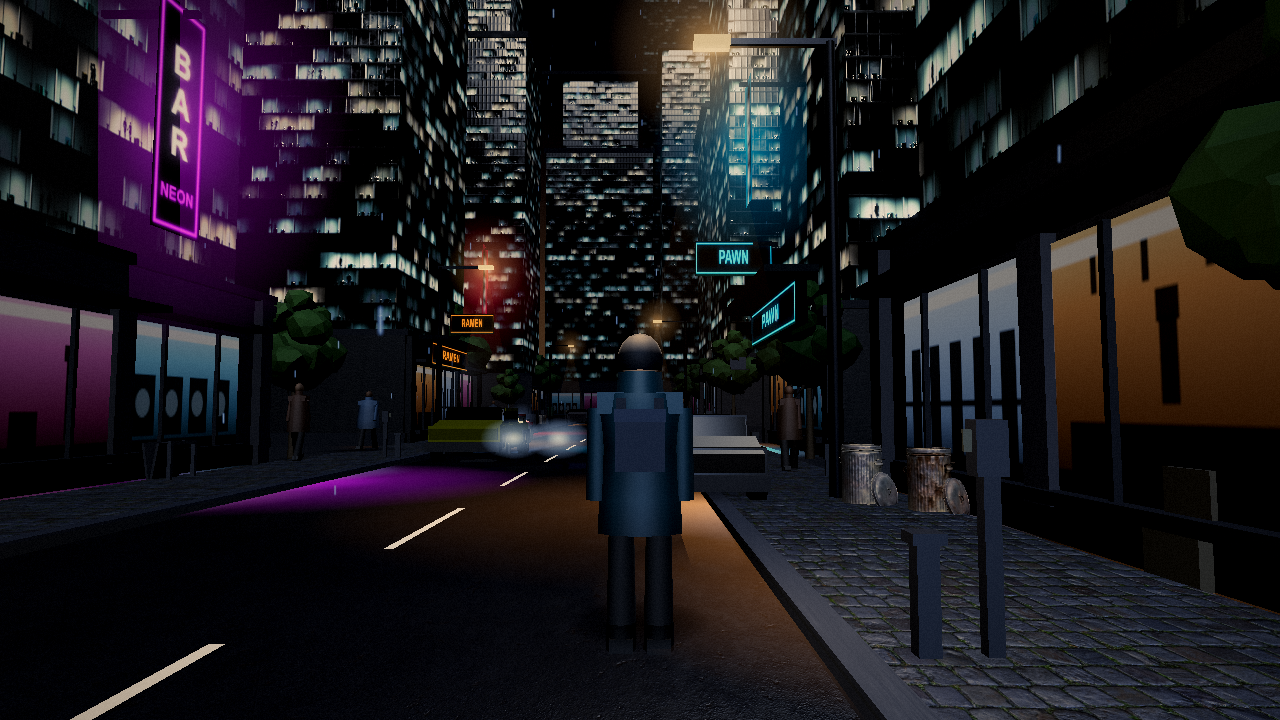
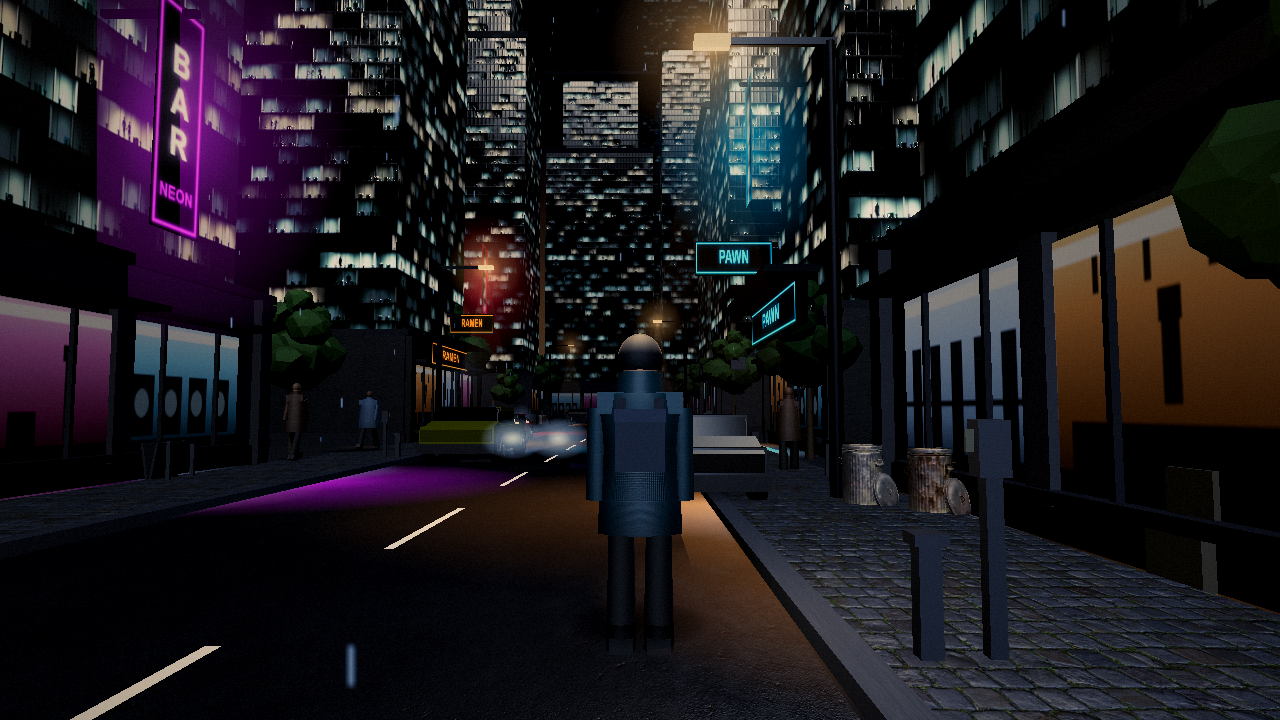
feat(render): cloth that is cloth, not flat colour (VGA-013)
Every surface in this city carries a normal map except the one the player
looks at for the whole game. The hero's coat and all 72 walkers' coats were
flat colour standing in front of PBR pavement and PBR walls, and that
mismatch reads as "the character is from a different, cheaper game" long
before any shape problem does. It is the last thing left that made the
avatar look moulded.

A woven height field — two fine sine ripples plus seeded noise — differenced
into a tangent-space normal map at 128x128, built once and shared by the
hero and the whole crowd. Tiled four times, at 0.62 strength on the hero and
0.5 on the instanced walkers, because their coats are never as close to the
camera.

Seeded through mulberry32, not Math.random, so the weave is the same every
run.

Draws: 153 peak / 139 mode on the same scripted sweep — unchanged. One
texture, no new material, no new mesh.

Evidence: slice-035-coat-day.png, slice-035-street-day.png.

diff --git a/src/render/player.js b/src/render/player.js
@@ -2,6 +2,7 @@
 // Matches NPC fidelity — same silhouette language, hero-specific details.
 import * as THREE from 'three';
 import { mergeGeometries } from 'three/addons/utils/BufferGeometryUtils.js';
+import { mulberry32 } from '../sim/rng.js';
 
 function heroFaceTexture() {
   const c = document.createElement('canvas');
@@ -19,6 +20,54 @@ function heroFaceTexture() {
   const tex = new THREE.CanvasTexture(c);
   tex.colorSpace = THREE.SRGBColorSpace;
   return tex;
+}
+
+// Every surface in this city carries a normal map except the one the player
+// looks at for the whole game. The hero's coat and the crowd's coats were
+// flat colour next to PBR pavement and PBR walls, and that mismatch reads as
+// "the character is from a different, cheaper game" long before any shape
+// problem does. A woven height field, differenced into normals: 128x128,
+// built once, shared by the hero and all 72 walkers.
+let _fabric = null;
+
+function fabricNormalMap() {
+  if (_fabric) return _fabric;
+  const S = 128;
+  const rnd = mulberry32(0x5eed);
+  const h = new Float32Array(S * S);
+  for (let y = 0; y < S; y += 1) {
+    for (let x = 0; x < S; x += 1) {
+      h[y * S + x] = Math.sin(x * 1.55) * 0.3 + Math.sin(y * 1.55) * 0.3 + rnd() * 0.4;
+    }
+  }
+  const c = document.createElement('canvas');
+  c.width = S;
+  c.height = S;
+  const g = c.getContext('2d');
+  const img = g.createImageData(S, S);
+  const at = (x, y) => h[((y + S) % S) * S + ((x + S) % S)];
+  for (let y = 0; y < S; y += 1) {
+    for (let x = 0; x < S; x += 1) {
+      const nx = (at(x - 1, y) - at(x + 1, y)) * 1.4;
+      const ny = (at(x, y - 1) - at(x, y + 1)) * 1.4;
+      const len = Math.hypot(nx, ny, 1);
+      const i = (y * S + x) * 4;
+      img.data[i] = (nx / len * 0.5 + 0.5) * 255;
+      img.data[i + 1] = (ny / len * 0.5 + 0.5) * 255;
+      img.data[i + 2] = (1 / len * 0.5 + 0.5) * 255;
+      img.data[i + 3] = 255;
+    }
+  }
+  g.putImageData(img, 0, 0);
+  _fabric = new THREE.CanvasTexture(c);
+  _fabric.wrapS = THREE.RepeatWrapping;
+  _fabric.wrapT = THREE.RepeatWrapping;
+  _fabric.repeat.set(4, 4);
+  return _fabric;
+}
+
+export function coatFabric(scale) {
+  return { normalMap: fabricNormalMap(), normalScale: new THREE.Vector2(scale, scale) };
 }
 
 // Cloth is never one value. A coat catches sky on the shoulders, goes dark in
@@ -79,6 +128,7 @@ export function buildPlayer() {
   bakeVerticalShade(coatGeo, 0);
   const coatMat = new THREE.MeshStandardMaterial({
     color: 0x112b32, roughness: 0.6, metalness: 0.1, envMapIntensity: 0.9, vertexColors: true,
+    ...coatFabric(0.62),
   });
   const coat = new THREE.Mesh(coatGeo, coatMat);
   coat.castShadow = true;

diff --git a/src/render/npcs.js b/src/render/npcs.js
@@ -3,7 +3,7 @@
 // the walker freezes. Hats/visors hide via zero-scale for wearers without.
 import * as THREE from 'three';
 import { mergeGeometries } from 'three/addons/utils/BufferGeometryUtils.js';
-import { bakeVerticalShade } from './player.js';
+import { bakeVerticalShade, coatFabric } from './player.js';
 import { NPC_COUNT, SKIN_TONES, isDark, zoneAt } from '../sim/street.js';
 
 const HAT_COLORS = [0x14161c, 0x3a2a1a, 0x1a3a4a, 0x5c1f2e];
@@ -73,6 +73,7 @@ export function buildNPCs(street) {
   bakeVerticalShade(armGeo, 1.42);
   const coatMat = new THREE.MeshStandardMaterial({
     roughness: 0.65, metalness: 0.05, envMapIntensity: 1.1, vertexColors: true,
+    ...coatFabric(0.5),
   });
   const bodies = new THREE.InstancedMesh(coatGeo, coatMat, NPC_COUNT);
   bodies.castShadow = true;

diff --git a/docs/VISUAL-GAP-ACTIONS.md b/docs/VISUAL-GAP-ACTIONS.md
@@ -82,7 +82,7 @@ before reinstating anything that was removed.
 
 - **VGA-011 Body system v2.** ⏳ PARTIAL (slice 017 + slice 027. Slice 027 answered the ball-head note: skull and hair cap merge into one head geometry and the cap rides a vertex-colour multiplier, so each walker's own skin tone darkens to hair with no second draw and no second material. Coats got the same squash-and-yoke as the hero, hems narrowed 0.40→0.31, shoes merged into the leg mesh. +0 draws. The 5-silhouette sidewalk close-up is still open. Slice 030 gave every walker the hero's two fixes: coats squashed 1.22→1.02 across (three head-widths of shoulder was most of the pawn read at crowd distance) and the same baked vertical shade, which multiplies against each walker's instance tint so the palette survives. +0 draws, no new material.) Touches: `npcs.js` (+ walkers), sim spawn data. Draws: +1..3 (instanced parts).
 - **VGA-012 Fashion & cyberware.** ⏳ PARTIAL (slice 017: instanced hats on ~42%, glowing visors on ~25%, 5 skin tones, widened coat palette — all in sim data and rendering; not yet readable at play distance, close-up proof still open). Draws: +1 (atlas).
-- **VGA-013 Night readability.** ⏳ PARTIAL (slice 017: hero key light +0 draws, coats brightened with env response up, walkers cast shadows by day; head-vs-coat contrast still strong at distance — heads need the VGA-011 close-up pass to fully land). Draws: +1 (hero light).
+ Slice 035 fixed the fidelity mismatch underneath all of this: every surface in the city carried a normal map except the one the player looks at for the entire game. Flat-colour coats next to PBR pavement and PBR walls read as a character from a cheaper game long before any shape problem does. A woven height field differenced into normals, 128x128, built once and shared by the hero and all 72 walkers — +0 draws, one texture.- **VGA-013 Night readability.** ⏳ PARTIAL (slice 017: hero key light +0 draws, coats brightened with env response up, walkers cast shadows by day; head-vs-coat contrast still strong at distance — heads need the VGA-011 close-up pass to fully land). Draws: +1 (hero light).
 - **VGA-014 Poses & tableaus.** Sit, lean, smoke (glow tip), gesture, argue, queue, perform — plus staged frozen moments (deal, arrest, busk) at fixed corners. Done when: 3 tableau frames. Draws: +1..2.
 - **VGA-015 Rain silhouettes.** Umbrellas (colors/patterns), hoods, hunched runs, shelter clustering, density thinning at peak, wet shoulders, footstep splashes. Depends on VGA-040. Done when: storm-peak vs drizzle frames differ. Draws: +2 (umbrella instancing).
 - **VGA-016 Hands carry things.** Phones (hero raised-phone pose + screen glow on face; NPC handsets), courier parcels, vendor goods, instruments for buskers, laptops. Done when: profiler job + carried prop match in one frame. Draws: +1..2.
